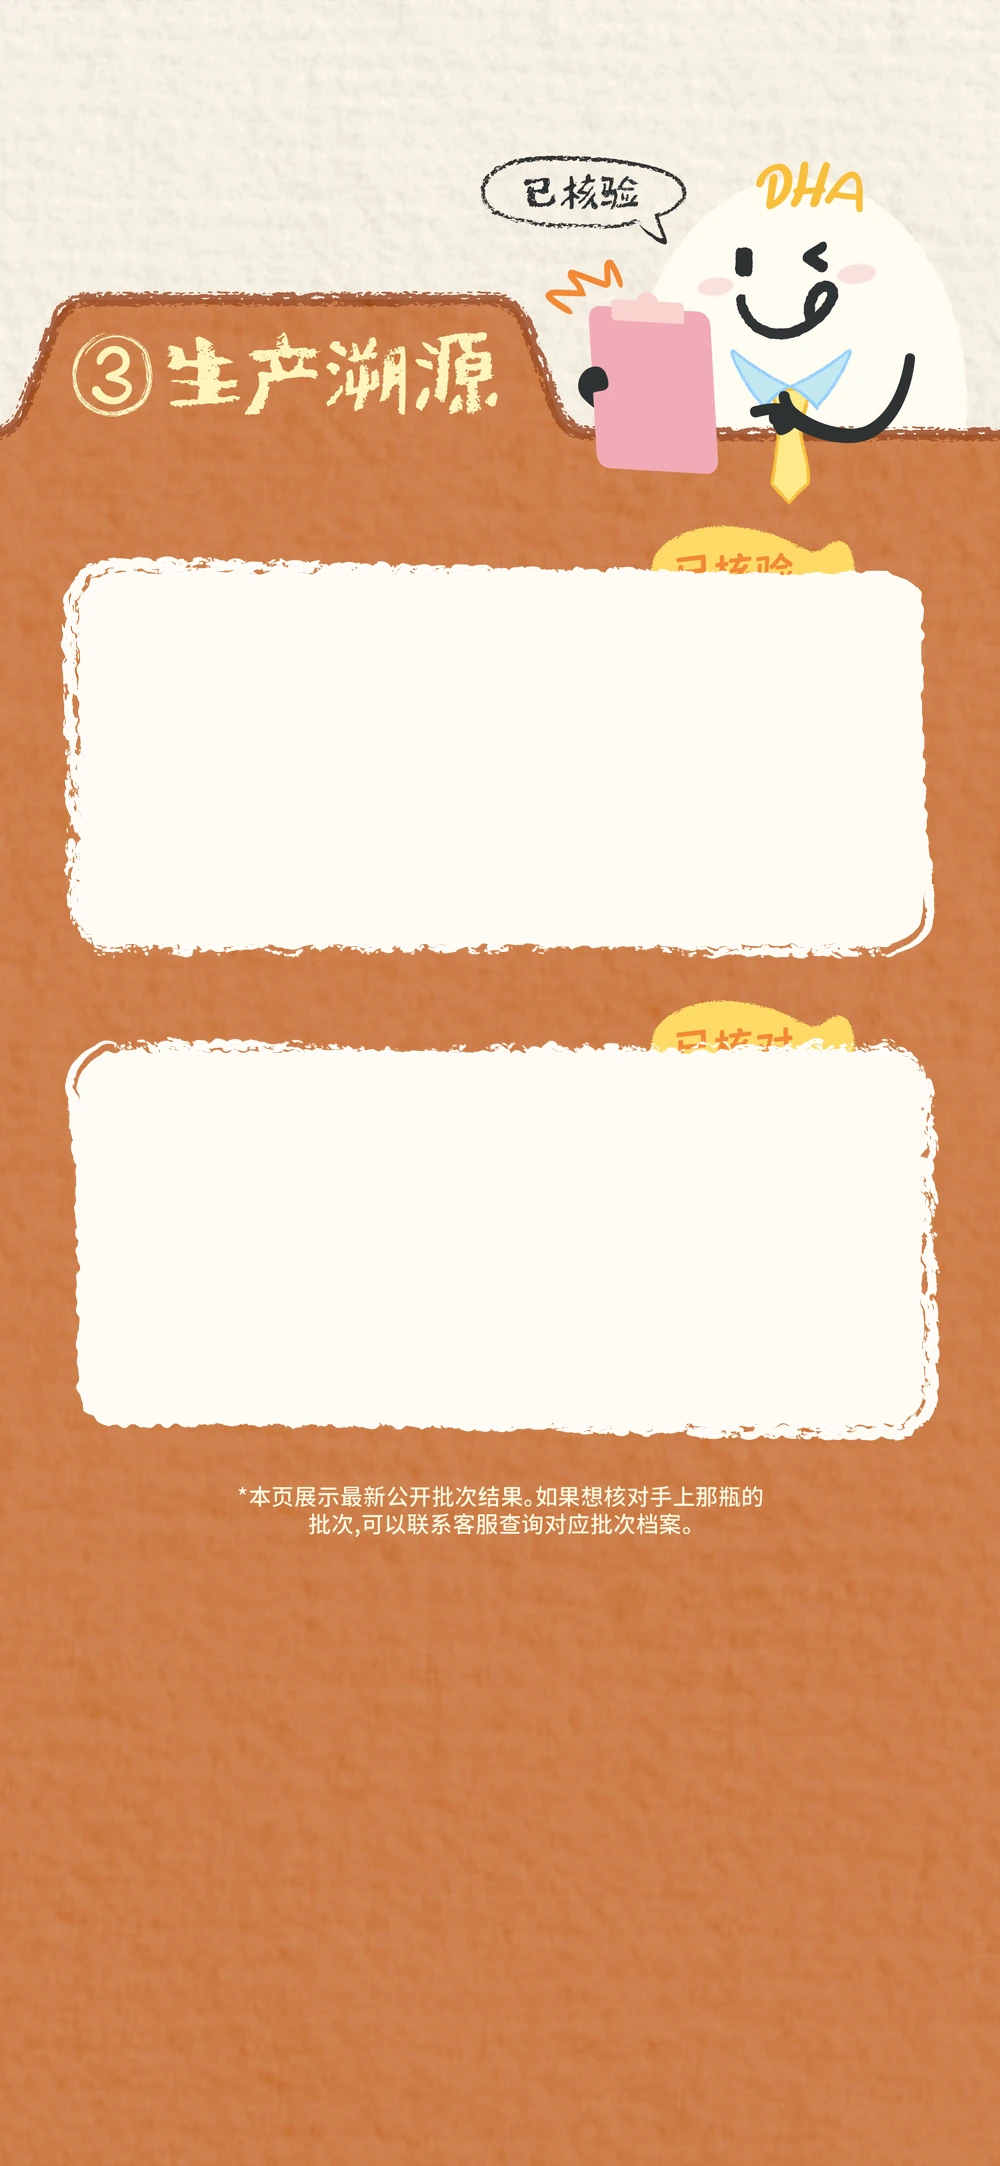
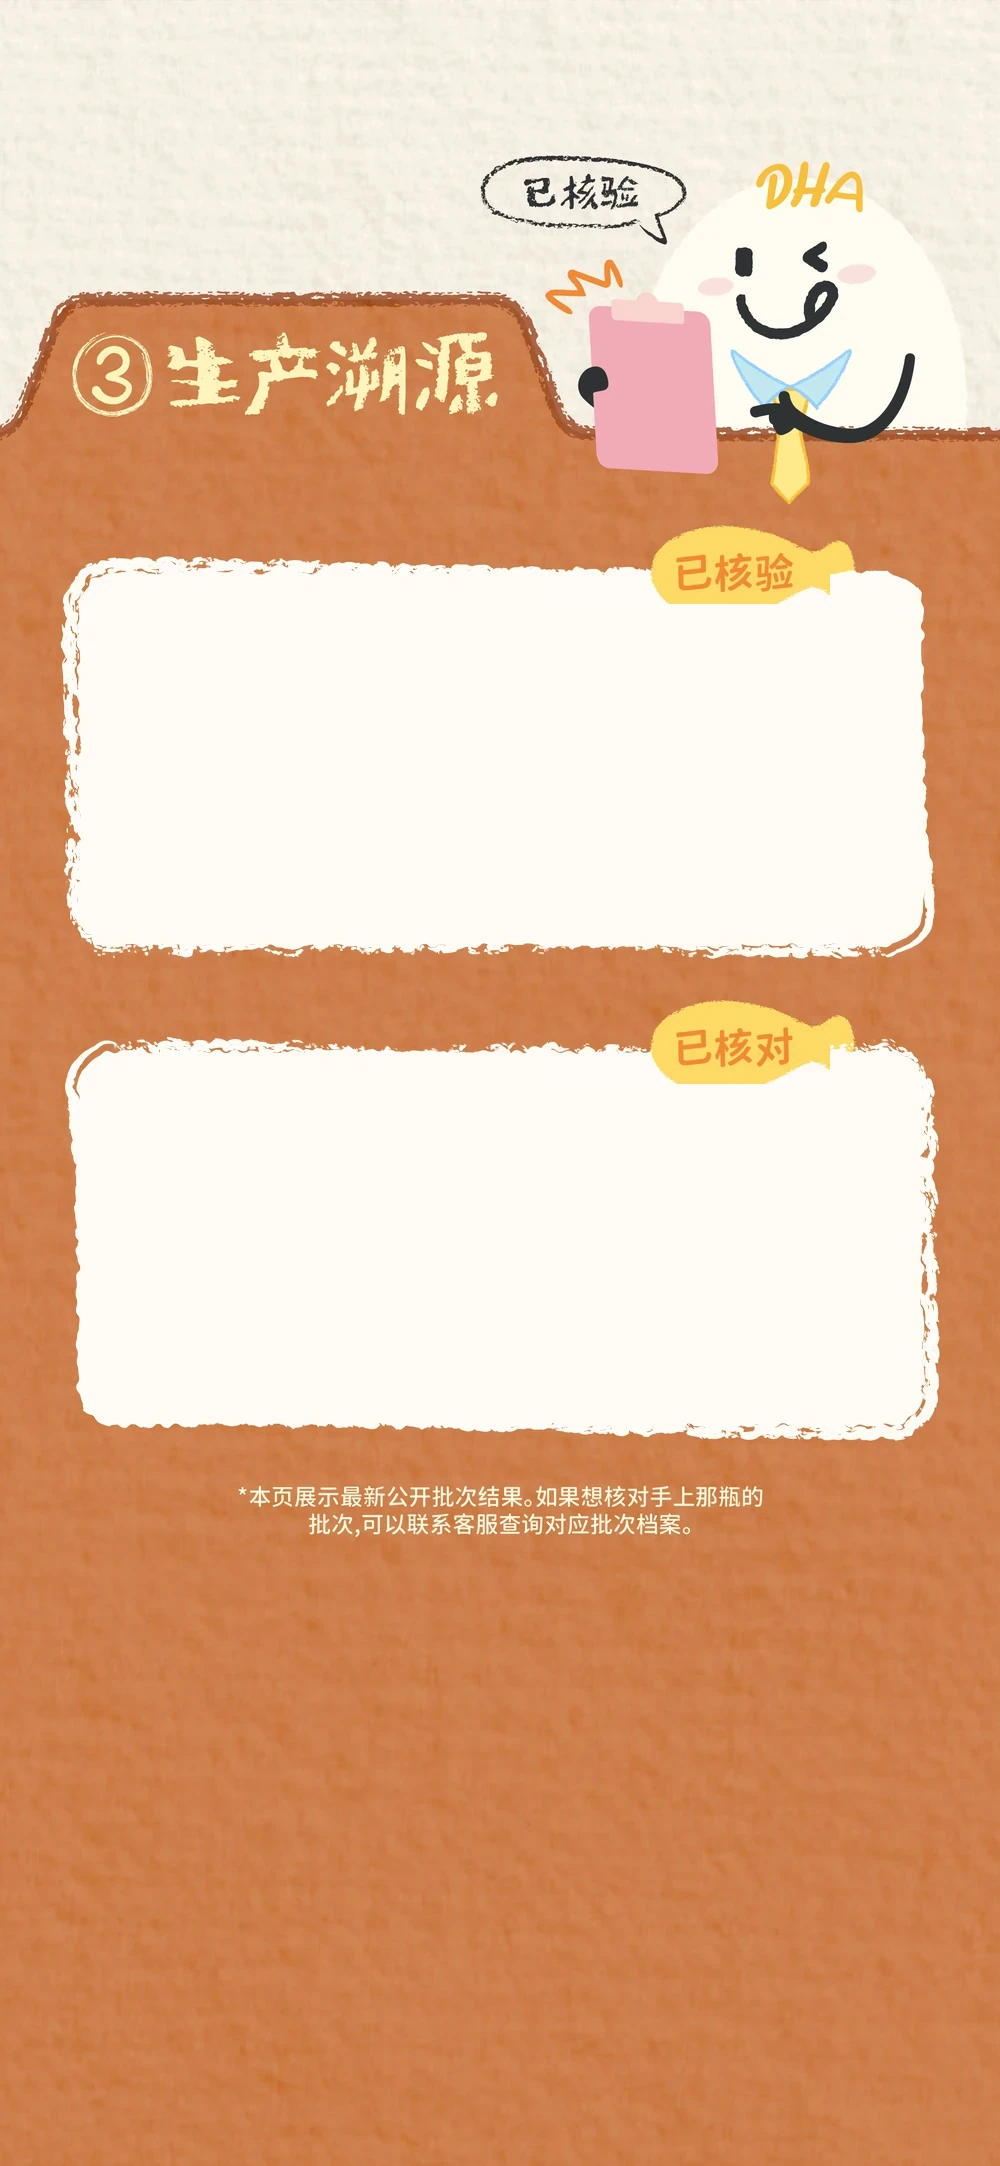
fix(h5): 修复生产溯源状态标签重影 + 首页文字后几行弹出
生产溯源状态标签重影：
- 根因：clean 底图里烤进的“已核验/已核对”位置偏左（偏离原图），且系统
  又叠了鱼形徽章 PNG + HTML 文字，形成三层重影
- 按原图修正：将完整原图 category-traceability.webp 中位置正确的鱼形徽标
  区域回贴到 clean 底图对应位置，使底图状态文字与原图一致
- 移除该页的 HTML 状态叠加（display:none），只保留底图状态，彻底消除重影

首页文字“后几行突然弹出”：
- 根因：CSS 逐行动画硬编码 3.2s/2.15s/0.15s，与 JS 完成计时（走配置
  240/900/850≈3.79s）不一致，is-complete 过早触发，后几行未扫入即弹出
- 让 CSS 逐行动画改用配置变量（唯一来源），配置设为 150/3200/2150 保留
  首行认可的观感；补 is-complete 收尾态；同步 JS 完成计时与测试超时
- 已渲染验证：后几行在未轮到时保持隐藏、轮到时逐字扫入、完成后全显

Claude-Session: https://claude.ai/code/session_01YSB4dz649NVshuDpNekTcC

Changed region(s): [[0.651, 0.464, 0.837, 0.5259], [0.651, 0.2475, 0.837, 0.2784]]

diff --git a/src/app/globals.css b/src/app/globals.css
@@ -355,18 +355,23 @@ button, a { font: inherit; }
   will-change: -webkit-mask-position, mask-position;
 }
 
-.archive-story-copy.is-ready.is-started
-
+.archive-story-copy.is-ready.is-started:not(.is-complete)
 .archive-story-copy-line {
   animation:
     archive-story-line
-    3.2s
-    linear
+    var(--archive-story-duration)
+    var(--archive-story-easing)
     calc(
-      0.15s +
-      var(--archive-story-index) * 2.15s
+      var(--archive-story-delay) +
+      var(--archive-story-index) * var(--archive-story-step)
     )
     both;
+}
+/* 完成后所有行保持完全显示（避免逐行时长与整体完成计时不一致时出现弹出） */
+.archive-story-copy.is-complete .archive-story-copy-line {
+  -webkit-mask-image: none;
+  mask-image: none;
+  opacity: 1;
 }
 .archive-story-copy-line.is-static {
   opacity: 1;
@@ -714,58 +719,11 @@ button, a { font: inherit; }
   overflow: visible;
 }
 
+/* 生产溯源：鱼形徽标上的“已核验/已核对”已按原图烤进底图（category-traceability-clean.webp），
+   不再叠加 HTML 状态文字，避免与底图重影错位。 */
 .category-page-final[data-category="production-traceability"]
 .category-card-status {
-  position: absolute !important;
-  z-index: 8 !important;
-
-  top: -3.6cqw !important;
-  left: 57.2cqw !important;
-
-  display: flex !important;
-  width: 20.6cqw !important;
-  height: 9.4cqw !important;
-
-  box-sizing: border-box;
-  align-items: center;
-  justify-content: center;
-
-  /* 鱼形徽章尾巴在右侧，所以文字略向左收 */
-  padding: .25cqw 2.2cqw 0 0;
-
-  overflow: visible !important;
-  clip-path: none !important;
-
-  color: #e9863f;
-  font-family: var(--font-display);
-  font-size: 4cqw;
-  font-weight: 700;
-  line-height: 1;
-  white-space: nowrap !important;
-
-  /* 直接复用仓库已有黄色鱼形状态徽章 */
-  background:
-    center / 100% 100%
-    no-repeat
-    url("/design/final-v1/category-status-review.png");
-
-  pointer-events: none;
-}
-
-/* 第一张：已核验 */
-.category-page-final[data-category="production-traceability"]
-.category-card-hotspot[data-index="0"]
-.category-card-status {
-  top: -3.6cqw !important;
-  left: 57.2cqw !important;
-}
-
-/* 第二张：已核对 */
-.category-page-final[data-category="production-traceability"]
-.category-card-hotspot[data-index="1"]
-.category-card-status {
-  top: -3.6cqw !important;
-  left: 56.6cqw !important;
+  display: none !important;
 }
 
 .reports-archive-final .archive-category-hotspot:active, .category-page-final .category-card-hotspot:active { background: rgb(255 255 255 / .12); }

diff --git a/tests/unit/archive-story-copy-motion.test.tsx b/tests/unit/archive-story-copy-motion.test.tsx
@@ -56,9 +56,9 @@ describe("archive story copy motion", () => {
     act(() => notify?.([{ isIntersecting: true, intersectionRatio: .3 } as IntersectionObserverEntry], {} as IntersectionObserver));
     expect(root).toHaveAttribute("data-motion-started", "true");
     expect(disconnect).toHaveBeenCalled();
-    await waitFor(() => expect(root).toHaveAttribute("data-motion-complete", "true"), { timeout: 8000 });
+    await waitFor(() => expect(root).toHaveAttribute("data-motion-complete", "true"), { timeout: 11000 });
     expect(sessionStorage.getItem("archive-story-copy-complete-v2")).toBe("true");
-  }, 9000);
+  }, 12000);
 
   it("uses the complete static artwork for reduced motion and asset failure", async () => {
     vi.stubGlobal("matchMedia", vi.fn().mockReturnValue({ matches: true }));

diff --git a/src/components/h5/motion/motion-config.ts b/src/components/h5/motion/motion-config.ts
@@ -51,11 +51,11 @@ export const h5MotionTiming = {
     threshold: 0.3,
   },
   archiveStoryCopy: {
-    delayMs: 240,
-    // 逐字渐显：每行由左到右带柔边扫入，单行扫完的时长
-    lineDurationMs: 850,
-    // 行与行之间的起始间隔（略大于单行时长 → 逐行依次、清晰可辨）
-    lineStepMs: 900,
+    delayMs: 150,
+    // 逐字渐显：每行由左到右带柔边扫入，单行扫完的时长（与首行认可的观感一致）
+    lineDurationMs: 3200,
+    // 行与行之间的起始间隔（CSS 逐行动画与 JS 完成计时以此为唯一来源，避免后几行提前弹出）
+    lineStepMs: 2150,
     easing: "linear",
     threshold: 0.3,
   },
